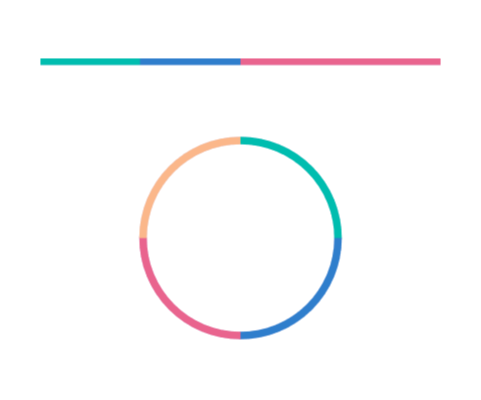
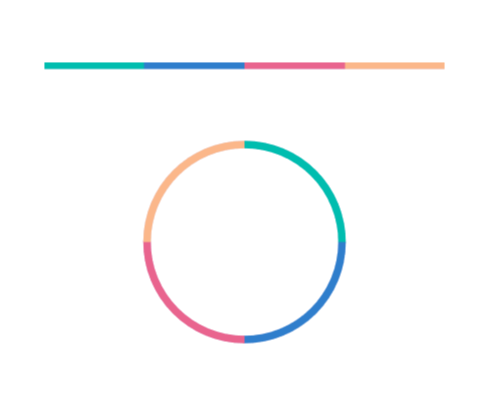
review changes

Changed region(s): [[0.2807, 0.33, 0.7173, 0.87], [0.0624, 0.12, 0.9356, 0.18]]

diff --git a/MAUI/ProgressBar/Animation.md b/MAUI/ProgressBar/Animation.md
@@ -27,21 +27,36 @@ The following code sample demonstrates the `CubicInOut` easing function of the l
 
 {% highlight xaml %}
 
+<!--Using the linear progress bar-->
 <progressBar:SfLinearProgressBar Progress="75" 
                                  AnimationEasing="{x:Static Easing.CubicInOut}" />
+
+<!--Using the circular progress bar-->
+<progressBar:SfCircularProgressBar Progress="75"
+                                   AnimationEasing="{x:Static Easing.CubicInOut}"/>
 
 {% endhighlight %}
 
 {% highlight c# %}
 
+// Using the linear progress bar
 SfLinearProgressBar linearProgressBar = new SfLinearProgressBar();
 linearProgressBar.Progress = 75;
 linearProgressBar.AnimationEasing = Easing.CubicInOut;
 this.Content = linearProgressBar;
 
+// Using the circular progress bar
+SfCircularProgressBar circularProgressBar = new SfCircularProgressBar();
+circularProgressBar.Progress = 75;
+circularProgressBar.AnimationEasing = Easing.CubicInOut;
+this.Content = circularProgressBar;
+
+
 {% endhighlight %}
 
 {% endtabs %} 
+
+![.NET MAUI Progress Bar with CubicInOut animation](images/animation/easing-animation.gif)
 
 The `SetProgress()` method in the progress bar is used to set progress value along with animation duration and easing effect applicable for the specific method call.
 
@@ -63,20 +78,34 @@ The following code sample demonstrates the `BounceIn` easing function of the lin
 
 {% highlight xaml %}
 
+<!--Using the linear progress bar-->
 <progressBar:SfLinearProgressBar IsIndeterminate="True" 
                                  IndeterminateAnimationEasing="{x:Static Easing.BounceIn}" />
+
+<!--Using the circular progress bar-->
+<progressBar:SfCircularProgressBar IsIndeterminate="True" 
+                                   IndeterminateAnimationEasing="{x:Static Easing.BounceIn}" />
 
 {% endhighlight %}
 
 {% highlight c# %}
 
+// Using the linear progress bar
 SfLinearProgressBar linearProgressBar = new SfLinearProgressBar();
 linearProgressBar.IsIndeterminate = true;
 linearProgressBar.IndeterminateAnimationEasing = Easing.BounceIn;
 this.Content = linearProgressBar;
 
+// Using the circular progress bar
+SfCircularProgressBar circularProgressBar = new SfCircularProgressBar();
+circularProgressBar.IsIndeterminate = true;
+circularProgressBar.IndeterminateAnimationEasing = Easing.BounceIn;
+this.Content = circularProgressBar;
+
 {% endhighlight %}
 
 {% endtabs %} 
+
+![.NET MAUI Progress Bar with indeterminate animation](images/animation/indeterminate.gif)
 
 N> You can refer to our `.NET MAUI ProgressBar` feature tour page for its groundbreaking feature representations. You can also explore our [.NET MAUI ProgressBar example](https://github.com/syncfusion/maui-demos/) that shows how to configure a ProgressBar in .NET MAUI.

diff --git a/MAUI/ProgressBar/Appearance.md b/MAUI/ProgressBar/Appearance.md
@@ -66,8 +66,8 @@ The following code sample demonstrates how to map the solid color range in the p
         <progressBar:ProgressGradientStop Color="#2f7ecc" Value="50"/>
         <progressBar:ProgressGradientStop Color="#e9648e" Value="50"/>
         <progressBar:ProgressGradientStop Color="#e9648e" Value="75"/>
-        <progressBar:ProgressGradientStop Color="#e9648e" Value="75"/>
-        <progressBar:ProgressGradientStop Color="#e9648e" Value="100"/>
+        <progressBar:ProgressGradientStop Color="#fbb78a" Value="75"/>
+        <progressBar:ProgressGradientStop Color="#fbb78a" Value="100"/>
     </progressBar:SfLinearProgressBar.GradientStops>
 </progressBar:SfLinearProgressBar>
 
@@ -192,10 +192,11 @@ In the linear progress bar, the height of the track, progress, and secondary pro
 
 {% highlight xaml %}
 
-<progressBar:SfLinearProgressBar Progress="100" 
+<progressBar:SfLinearProgressBar Progress="30" 
                                  TrackHeight="10" 
                                  ProgressHeight="10"
-                                 SecondaryProgressHeight="10" />
+                                 SecondaryProgressHeight="10"
+                                 SecondaryProgress="70" />
 
 {% endhighlight %}
 
@@ -203,6 +204,7 @@ In the linear progress bar, the height of the track, progress, and secondary pro
 
 SfLinearProgressBar linearProgressBar = new SfLinearProgressBar();
 linearProgressBar.Progress = 100;
+linearProgressBar.SecondaryProgress = 100;
 linearProgressBar.TrackHeight = 10;
 linearProgressBar.ProgressHeight = 10;
 linearProgressBar.SecondaryProgressHeight = 10;
